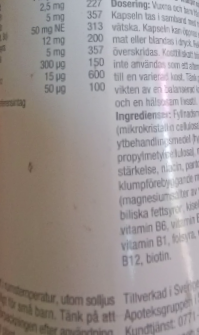
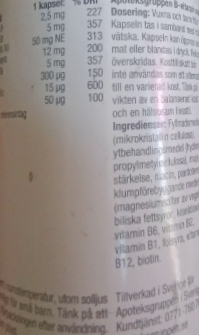
update from perspective transform to find homography

diff --git a/image_manager.py b/image_manager.py
@@ -96,10 +96,9 @@ class ManageFrames:
         points_2 = self.get_corr_corners(cont_max)
 
         if all(isinstance(p, np.ndarray) for p in [points_1, points_2]):
-            matrix = cv2.getPerspectiveTransform(np.float32(points_1),
-                                                 np.float32(points_2),
-                                                 cv2.DECOMP_SVD)
-            frame = cv2.warpPerspective(frame, matrix,
+            homography, _ = cv2.findHomography(points_1, points_2)
+            homography = homography.astype(np.float64)
+            frame = cv2.warpPerspective(frame, homography,
                                         dsize=cv2.boundingRect(cont_max)[2:])
         return frame
 
@@ -110,7 +109,7 @@ class ManageFrames:
         x, y, w, h = cv2.boundingRect(contour)
         print(x, y, w, h)
         corners = self.sort_correction_corners(np.array(
-            [[[0, y]], [[w, y]], [[w, h]], [[0, h]]]))
+            [[[0, y]], [[w, y]], [[w, h]], [[0, h]]]), contour)
         return corners
 
     def get_approx_corners(self, contour: np.ndarray) -> np.ndarray:
@@ -137,20 +136,32 @@ class ManageFrames:
             approx = cv2.approxPolyDP(contour, epsilon, True)
             if len(approx) == 4:
                 print(eps_val)
-                approx = self.sort_correction_corners(approx)
+                approx = self.sort_correction_corners(approx, contour)
                 return approx
 
-    def sort_correction_corners(self, corners) -> list:
+    def get_corr_max_min(self, contour: np.ndarray) -> np.ndarray:
+        """
+        Return pairs where height and width is the largest and smallest.
+        """
+        max_x = max(contour, key=lambda x: x[0][0])
+        min_x = min(contour, key=lambda x: x[0][0])
+        max_y = max(contour, key=lambda x: x[0][1])
+        min_y = min(contour, key=lambda x: x[0][1])
+        print(max_x, max_y, min_x, min_y)
+        return max_x, max_y, min_x, min_y
+
+    def sort_correction_corners(self, corners, contour) -> list:
         """
         Make sure corners are in the same order before perspective transform.
-        Returns  corners of square, clockwise, with top left corner first. 
+        Returns  corners of square, clockwise, with top left corner first.
         """
         sorted_horizontal = sorted(corners, key=lambda x: x[0][0])
         top_left = sorted(sorted_horizontal[:2], key=lambda x: x[0][1])[0]
         bottom_left = sorted(sorted_horizontal[:2], key=lambda x: x[0][1])[1]
         top_right = sorted(sorted_horizontal[2:], key=lambda x: x[0][1])[0]
         bottom_right = sorted(sorted_horizontal[2:], key=lambda x: x[0][1])[1]
-        return np.array([top_left, bottom_left, top_right, bottom_right])
+        max_x, max_y, min_x, min_y = self.get_corr_max_min(contour)
+        return np.array([top_left, max_x, top_right, max_y, bottom_right, min_x, bottom_left, min_y])
 
     def enhance_class_names(self) -> List[str]:
         """
